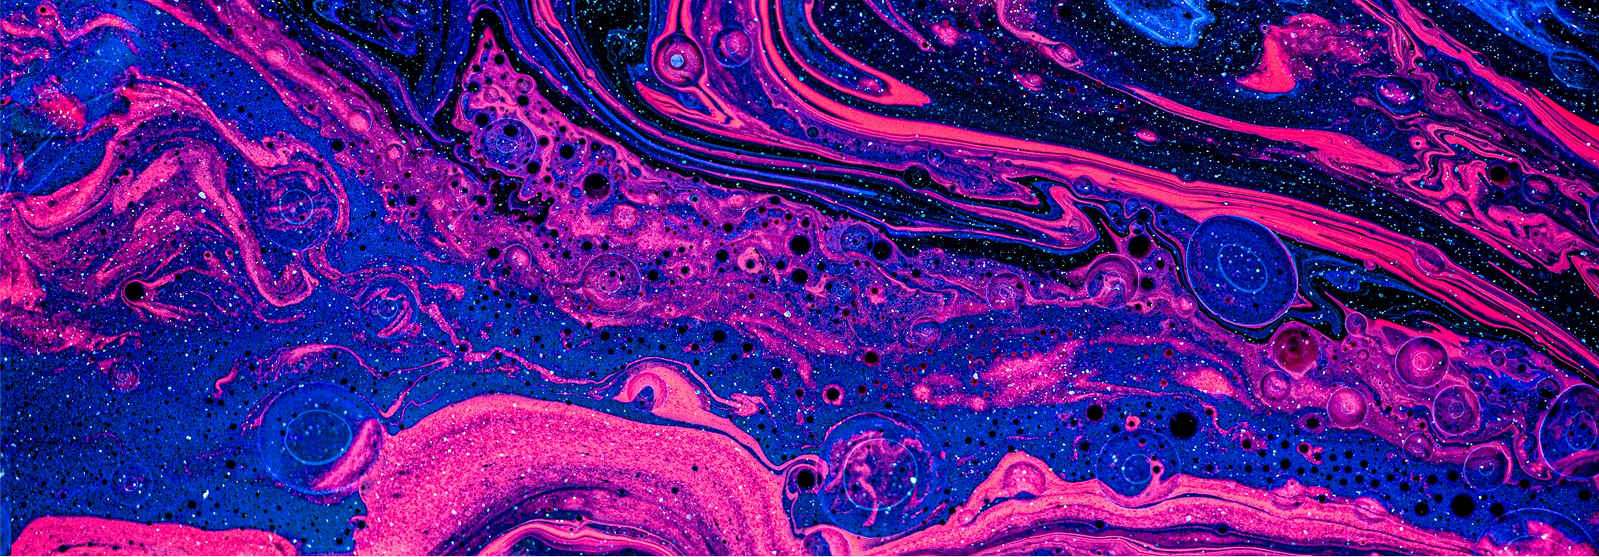
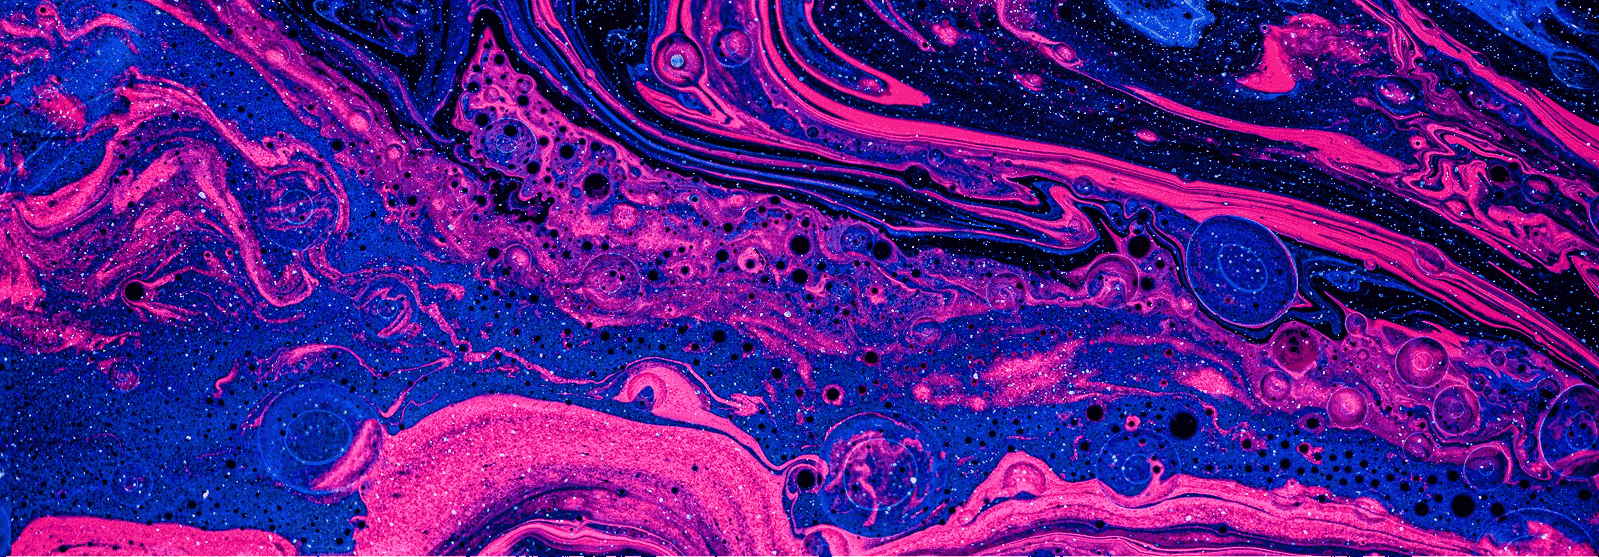
change

diff --git a/index.html b/index.html
@@ -46,7 +46,7 @@
       rel="stylesheet"
     />
     <link rel="stylesheet" href="https://cdn.jsdelivr.net/npm/swiper/swiper-bundle.min.css" />
-    <link rel="preload" as="image" href="img/hero-section/hero_img.svg" />
+    <link rel="preload" as="image" href="img/hero-section/hero_img.jpg" />
   </head>
 
   <body>
